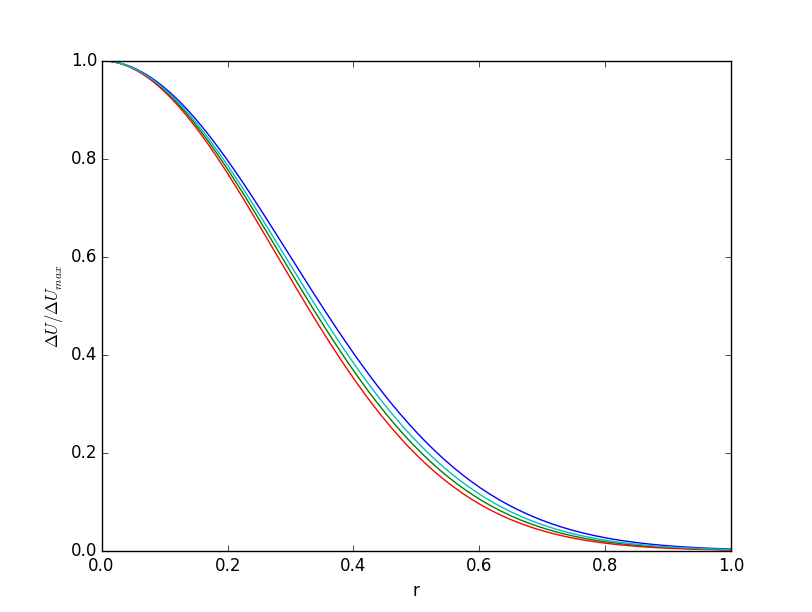
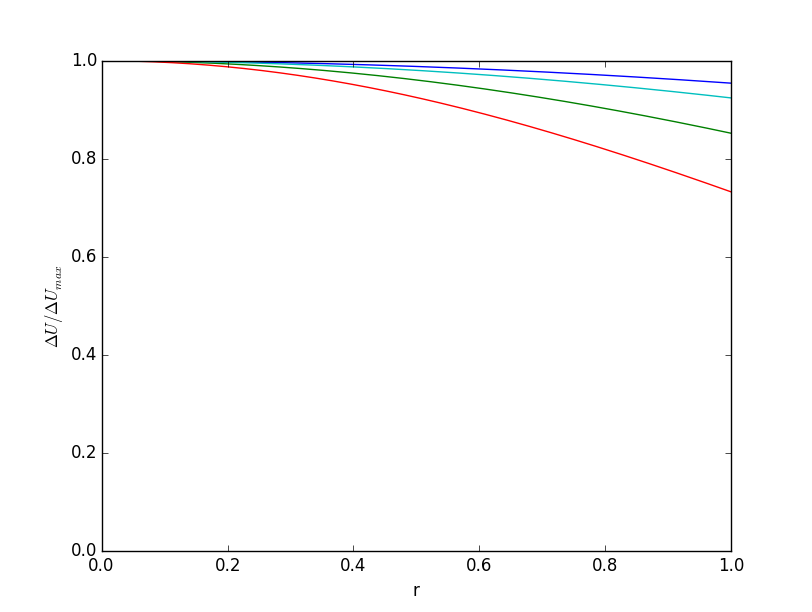
funciones nuevas: barrer y fraccionar. prueba_total funciona

diff --git a/src/viejo/Gaussiana.py b/src/viejo/Gaussiana.py
@@ -1,3 +1,5 @@
+# coding=utf-8
+
 # from Modelo import Modelo
 import numpy as np
 from numpy import exp
@@ -26,26 +28,26 @@ class Gaussiana(object):
         self.exponente = None
         self.gauss = None
         self.deficit_dividido_U_inf = None
-
-
+        self.r = np.arange(1)
+        self.x_n = np.arange(1)
 
     def play(self):
         self.coordenadas.normalizar(self.case)
-        x_n = self.coordenadas.x_n
+        self.x_n = self.coordenadas.x_n
         y_n = self.coordenadas.y_n
         z_n = self.coordenadas.z_n
         self.coordenadas.cart2pol()
-        r = self.coordenadas.r
+        self.r = self.coordenadas.r
         phi = self.coordenadas.phi
-        sigma_n = self.k_estrella * x_n + self.epsilon
+        sigma_n = self.k_estrella * self.x_n + self.epsilon
         sigma_n_cuadrado = (sigma_n)**2
-        r_cuadrado = r**2
+        r_cuadrado = self.r**2
         c = 1 - (1-(self.c_T/(8*sigma_n_cuadrado)))**(1/2)
-        self.exponente = np.zeros((len(x_n),len(r)))
-        self.gauss = np.zeros((len(x_n),len(r)))
-        self.deficit_dividido_U_inf = np.zeros((len(x_n),len(r)))
-        for i in range (0,len(x_n)):
-            for j in range (0,len(r)):
+        self.exponente = np.zeros((len(self.x_n),len(self.r)))
+        self.gauss = np.zeros((len(self.x_n),len(self.r)))
+        self.deficit_dividido_U_inf = np.zeros((len(self.x_n),len(self.r)))
+        for i in range (0,len(self.x_n)):
+            for j in range (0,len(self.r)):
                 self.exponente[i,j] = -r_cuadrado[j] / (2 * sigma_n_cuadrado[i])
                 self.gauss[i,j] = exp(self.exponente[i,j])
                 self.deficit_dividido_U_inf[i,j] = c[i] * self.gauss[i,j]

diff --git a/src/viejo/prueba_total.py b/src/viejo/prueba_total.py
@@ -1,14 +1,49 @@
+# coding=utf-8
+
 import numpy as np
 
 from Case import Case
 from Coordenadas import Coordenadas
 from Gaussiana import Gaussiana
+from Figura import Figura
 
-case_1 = Case(0.15,0.125,2.2,0.42,0.00003,0.7)
-coordenadas_1 = Coordenadas(np.arange(0,15,1),np.arange(0,4.5,5),np.arange(0,4.5,0.5))
+x_n = np.arange(0,15,0.01)
+y_n = np.arange(0,4.5,0.005)
+z_n = np.arange(0,4.5,0.005)
+
+d_0 = 0.15
+
+x = d_0 * x_n
+y = d_0 * y_n
+z = d_0 * z_n
+
+
+case_1 = Case(0.15,0.125,2.2,0.42,0.00003,0.07)
+coordenadas_1 = Coordenadas(x,y,z)
 
 modelo_1 = Gaussiana(coordenadas_1,0.5,case_1,0.2,0.25)
 
 modelo_1.play()
 
-print(modelo_1.exponente)
+
+from fraccionar import fraccionar
+from barrer import barrer
+
+barrido_r = barrer(modelo_1.r)
+v_0, v_1, v_2, v_3 = fraccionar(modelo_1.x_n)
+
+nombre = "testDrive"
+xLabel = 'r'
+yLabel = r'$\Delta U / \Delta U_{max} $'
+numero = 4
+
+x_y = { 'x_1': modelo_1.r, 'y_1': modelo_1.gauss[v_0,barrido_r],
+        'x_2': modelo_1.r, 'y_2': modelo_1.gauss[v_1,barrido_r],
+        'x_3': modelo_1.r, 'y_3': modelo_1.gauss[v_2,barrido_r],
+        'x_4': modelo_1.r, 'y_4': modelo_1.gauss[v_3,barrido_r]}
+
+figura_1 = Figura(nombre,x_y,xLabel,yLabel,numero)
+figura_1.show_save()
+
+
+# el save de la figura no esta funcionando

diff --git a/src/viejo/gaussiana_1.py b/src/viejo/gaussiana_1.py
@@ -29,31 +29,6 @@ elif l == "4":
 	from case_4 import *
 
 
-#
-# d_0 = c.d_0
-# z_h = c.z_h
-# U_hub = c.U_hub
-# C_T = c.C_T
-# z_0 = c.z_0
-# I_0 = c.I_0
-#
-# x_n = c.x_n
-# y_n = c.y_n
-# z_n = c.z_n
-
-# esto esta mal, corregirlo con lo que tiene santi:
-
-#m= raw_input("Do you want to see the gaussian figures? Y/N ")
-
-#if m == "Y" :
-#	print("You'll see the figures")
-#	h = 0
-#else :
-#	print("You won't see the figures")
-#	h =plt.ion()
-
-
-
 # defino variables :
 
 k_estrella = 0.2	#
@@ -96,9 +71,6 @@ for i in range (0,len(x_n)):
 		gaussiana[i,j] = exp(exponente[i,j])
 		deficit_dividido_U_inf[i,j] = C[i] * gaussiana[i,j]
 
-# la matriz quedó armada de la siguiente forma:
-# (sigma_n_cuadrado , r_cuadrado)
-
 # para obtener la gaussiana para un dado sigma_n_cuadrado (o lo que es lo mismo para una dada x):
 
 #fin = np.arange(0,len(r_cuadrado))
@@ -130,7 +102,7 @@ fin = np.arange(0,len(r_cuadrado))
 
 # para ver todos los graficos en una misma figure:
 
-x_n_0 = int(max(x_n))
+x_n_0 = len(x_n)-1
 x_n_1 = int(x_n_0 / 2)
 x_n_2 = int(x_n_0 / 3)
 x_n_3 = int(x_n_0 * 0.75)

diff --git a/src/viejo/Figura.py b/src/viejo/Figura.py
@@ -12,7 +12,7 @@ class Figura(object):
         self.yLabel = yLabel
         self.numero = numero
 
-    def graph(self):
+    def show(self):
         if self.xLim != None:
             plt.xlim(self.xLim)
         if self.yLim != None:
@@ -31,7 +31,7 @@ class Figura(object):
         fig = plt.figure()
         plt.close(fig)
 
-    def graph_save(self):
+    def save(self):
         if self.xLim != None:
             plt.xlim(self.xLim)
         if self.yLim != None:
@@ -51,7 +51,7 @@ class Figura(object):
         fig.savefig(direc)
         plt.close(fig)
 
-    def graph_show_save(self):
+    def show_save(self):
         if self.xLim != None:
             plt.xlim(self.xLim)
         if self.yLim != None:

diff --git a/src/viejo/prueba_figuras.py b/src/viejo/prueba_figuras.py
@@ -8,6 +8,6 @@ figura_1 = Figura("figura_1",x_y,"xLabel","yLabel",1)
 figura_2 = Figura("figura_2",x_y,"xLabel","yLabel",2)
 figura_3 = Figura("figura_3",x_y,"xLabel","yLabel",3)
 
-figura_1.graph()
-figura_2.graph_save()
-figura_3.graph_show_save()
+figura_1.show()
+figura_2.save()
+figura_3.show_save()

diff --git a/src/viejo/fraccionar.py b/src/viejo/fraccionar.py
@@ -1,0 +1,6 @@
+def fraccionar(vector):
+    v_0 = len(vector)-1
+    v_1 = int(v_0 * 0.75)
+    v_2 = int(v_0 / 2)
+    v_3 = int(v_0 / 3)
+    return v_0, v_1, v_2, v_3

diff --git a/src/viejo/barrer.py b/src/viejo/barrer.py
@@ -1,0 +1,5 @@
+import numpy as np
+
+def barrer(vector):
+    barrido = np.arange(0,len(vector))
+    return barrido
